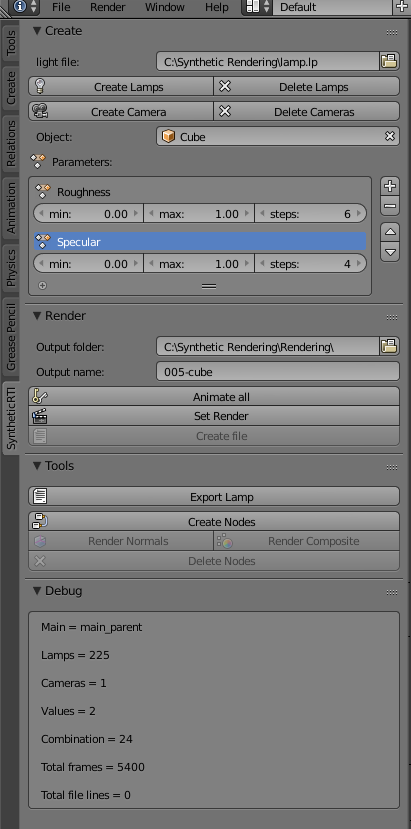
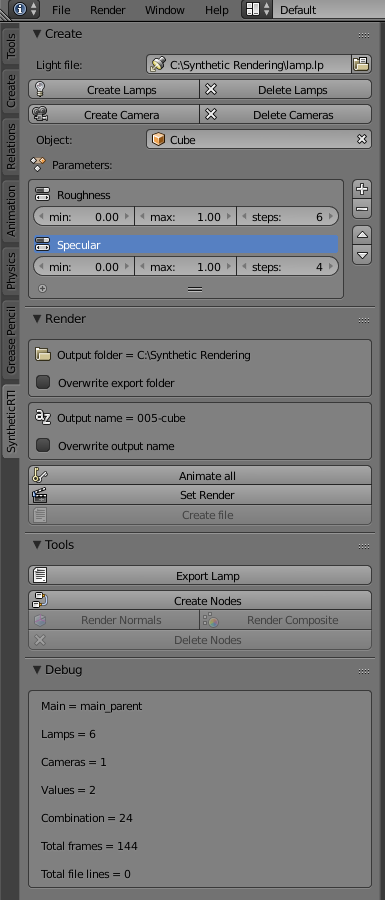
0.4.4 automatic folder and name output
- now we take the .blend file path and name to set the output. Give proper warning if the blender file is not saved
- it is possible to overwrite it
-interface and code polising

diff --git a/SyntheticRTI-Plugin/srtiutilities/srtiproperties.py b/SyntheticRTI-Plugin/srtiutilities/srtiproperties.py
@@ -24,35 +24,49 @@ class value(bpy.types.PropertyGroup):
     steps = bpy.props.IntProperty(default = 2, min = 2)
 
 class srti_props(bpy.types.PropertyGroup):
+    #path to the .lp file
     light_file_path = bpy.props.StringProperty(name="Lights file Path",
         subtype='FILE_PATH',
         default="*.lp",
         description = 'Path to the lights file.')
-
+        
+    #output folder path in use if overwrite_folder = true
     output_folder = bpy.props.StringProperty(name="Save file directory",
         subtype='DIR_PATH',
         description = 'Path to the lights file.')
-
+      
+    #output name in use if overwrite_name = true
     save_name = bpy.props.StringProperty(name="Save file name",
         default = "Image",
-        description = "file name")
-
+        description = "Export file name")
+    
+    #main parente empty pointer
     main_parent = bpy.props.PointerProperty(name="Main Parent",
         type=bpy.types.Object,
         description = "Main parent of the group")
 
+    #pointer to object affected by value changes
     main_object = bpy.props.PointerProperty(name="Main object",
         type=bpy.types.Object,
         description = "Main object to apply material")
+     
+    #boolean to overwrite the output folder path   
+    overwrite_folder = bpy.props.BoolProperty(name = "Overwrite export folder",
+        default = False,
+        description = "Overwrite export folder path")
 
-    modified = bpy.props.BoolProperty(name = "Boolean if not animated", default = True)
+    #boolean to overwrite the output folder name
+    overwrite_name = bpy.props.BoolProperty(name = "Overwrite output name",
+        default = False,
+        description = "Overwrite output name")
+    
+    #modified = bpy.props.BoolProperty(name = "Boolean if not animated", default = True)
 
     selected_value_index = bpy.props.IntProperty()
 
     list_lights = bpy.props.CollectionProperty(type = light)
     list_cameras = bpy.props.CollectionProperty(type = camera)
     list_values = bpy.props.CollectionProperty(type = value)
-    #list_file = bpy.props.CollectionProperty(type = bpy.props.StringProperty)
 
 def register():
     print("-"*40)
@@ -63,44 +77,5 @@ def register():
     bpy.utils.register_class(light)
     bpy.utils.register_class(camera)
     bpy.utils.register_class(value)
-    #bpy.utils.register_class(value_node)
     bpy.utils.register_class(srti_props)
     bpy.types.Scene.srti_props = bpy.props.PointerProperty(type = srti_props)
-
-
-#def unregister():
-#    bpy.utils.unregister_class(SyntheticRTIPanelTools)
-#    bpy.utils.unregister_class(SyntheticRTIPanelDebug)
-#    bpy.utils.unregister_class(SyntheticRTIPanelRender)
-#    bpy.utils.unregister_class(SyntheticRTIPanelCreate)
-#    bpy.utils.unregister_class(export_as_lamp)
-#    bpy.utils.unregister_class(render_normals)
-#    bpy.utils.unregister_class(render_composite)
-#    bpy.utils.unregister_class(reset_nodes)
-#    bpy.utils.unregister_class(create_export_node)
-#    bpy.utils.unregister_class(Values_UL_items)
-#    bpy.utils.unregister_class(values_UIList)
-#    bpy.utils.unregister_class(create_cameras)
-#    bpy.utils.unregister_class(create_lamps)
-#    bpy.utils.unregister_class(delete_cameras)
-#    bpy.utils.unregister_class(delete_lamps)
-#    bpy.utils.unregister_class(delete_active_lamp)
-#    bpy.utils.unregister_class(delete_active_camera)
-#    bpy.utils.unregister_class(create_export_file)
-#    bpy.utils.unregister_class(render_images)
-#    bpy.utils.unregister_class(animate_all)
-#    bpy.utils.unregister_class(srti_props)
-#    bpy.utils.unregister_class(light)
-#    bpy.utils.unregister_class(camera)
-#    bpy.utils.unregister_class(value)
-#    #bpy.utils.register_class(value_node)
-#    #bpy.types.Scene.srti_props = bpy.props.PointerProperty(type = srti_props)
-
-#    ##Delete of custom rna data
-#    #del bpy.types.Scene.srti_light_file_path
-#    #del bpy.types.Scene.srti_main_parent_prop
-
-#if __name__ == "__main__":
-#    print("registering main")
-#    print(__main__)
-#    register()

diff --git a/SyntheticRTI-Plugin/srtiutilities/srtigui.py b/SyntheticRTI-Plugin/srtiutilities/srtigui.py
@@ -4,6 +4,7 @@
 
 import bpy
 import numpy
+import os
 from .srtifunc import *
 from .srtiproperties import file_lines as file_lines
 
@@ -15,7 +16,7 @@ class Values_UL_items(bpy.types.UIList):
 #        row = box.row(align = True)
 #        row.alignment = 'LEFT'
         col1 = layout.column()
-        col1.prop(item, "name", text="", emboss=False, translate=False, icon='ACTION')
+        col1.prop(item, "name", text="", emboss=False, translate=False, icon='BUTS')
         row2 = col1.row(align = True)
         row2.prop(item,"min")
         row2.prop(item,"max")
@@ -40,7 +41,7 @@ class SyntheticRTIPanelCreate(bpy.types.Panel):
         layout = self.layout
         
         #light
-        layout.prop(curr_scene.srti_props, "light_file_path", text = 'light file')
+        layout.prop(curr_scene.srti_props, "light_file_path", text = 'Light file', icon = "LAMP_SPOT")
         row = layout.row(align = True)
         row.operator("srti.create_lamps", icon ="OUTLINER_DATA_LAMP")
         row.operator("srti.delete_lamps", icon = "X")
@@ -76,8 +77,36 @@ class SyntheticRTIPanelRender(bpy.types.Panel):
     def draw(self, context):
         curr_scene = context.scene
         layout = self.layout
-        layout.prop(curr_scene.srti_props, "output_folder", text = 'Output folder')
-        layout.prop(curr_scene.srti_props, "save_name", text = 'Output name')
+        
+        #output folder
+        box = layout.box()
+        if curr_scene.srti_props.overwrite_folder: #if we want to overwrite
+            box.label("Output folder = "+curr_scene.srti_props.output_folder, icon = "FILE_FOLDER")          
+            box.prop(curr_scene.srti_props, "overwrite_folder")
+            box.prop(curr_scene.srti_props, "output_folder", text = 'Output folder')
+        else: #standard output taken from the saved blender file
+            if context.blend_data.is_saved: # if the file is saved
+                box.label("Output folder = "+os.path.dirname(context.blend_data.filepath), icon = "FILE_FOLDER")
+            else:
+                box.label("Output folder = *Must save the file*", icon = "ERROR")
+                
+            box.prop(curr_scene.srti_props, "overwrite_folder")
+
+            
+        #output name    
+        box = layout.box()
+        if curr_scene.srti_props.overwrite_name: #if we want to overwrite
+            box.label("Output name = "+curr_scene.srti_props.save_name, icon = "SORTALPHA")
+            box.prop(curr_scene.srti_props, "overwrite_name")
+            box.prop(curr_scene.srti_props, "save_name", text = 'Output name')
+        else: #standard name taken from the saved blender file
+            if context.blend_data.is_saved: # if the file is saved
+                box.label("Output name = "+bpy.path.display_name(context.blend_data.filepath), icon = "SORTALPHA")
+            else:
+                box.label("Output name = *Must save the file*", icon = "ERROR")
+                
+            box.prop(curr_scene.srti_props, "overwrite_name")
+        
         col = layout.column(align = True)
         col.operator("srti.animate_all", icon ="KEYINGSET")
         col.operator("srti.render_images", icon = "RENDER_ANIMATION")

diff --git a/SyntheticRTI-Plugin/srtiutilities/srtioperators/srtiop_render.py b/SyntheticRTI-Plugin/srtiutilities/srtioperators/srtiop_render.py
@@ -2,6 +2,7 @@
 import bpy
 import numpy
 import itertools
+import os
 from ..srtifunc import *
 from ..srtiproperties import file_lines as file_lines
 ####ANIMATION########
@@ -204,8 +205,9 @@ class render_images(bpy.types.Operator):
     
     def execute(self, context):
         curr_scene = context.scene
-        file_name = curr_scene.srti_props.save_name
-        save_dir = curr_scene.srti_props.output_folder
+        
+        save_dir = get_export_folder_path(context)
+        file_name = get_export_name(context)
         
         #error if file path not set
         if save_dir == '':
@@ -216,7 +218,7 @@ class render_images(bpy.types.Operator):
             max_digit = len(str(calculate_tot_frame(context)))
             
             #set render path for local rendering
-            curr_scene.render.filepath = "{0}/EXR/{1}-{2}".format(save_dir[:-1],file_name,"#"*max_digit)
+            curr_scene.render.filepath = "{0}/EXR/{1}-{2}".format(save_dir,file_name,"#"*max_digit)
 
             #set render settings
             set_render_exr(curr_scene)
@@ -238,8 +240,9 @@ class create_export_file(bpy.types.Operator):
     
     def execute(self, context):
         curr_scene = context.scene
-        file_name = curr_scene.srti_props.save_name
-        save_dir = curr_scene.srti_props.output_folder
+        
+        save_dir = get_export_folder_path(context)
+        file_name = get_export_name(context)
         
         #error if file path not set
         if save_dir == '':
@@ -247,7 +250,7 @@ class create_export_file(bpy.types.Operator):
             return{'CANCELLED'}
         else:       
             #create the file
-            file_path = bpy.path.abspath(save_dir+file_name+".csv")
+            file_path = bpy.path.abspath(save_dir+'/'+file_name+".csv")
             file = open(file_path, "w")
             
             #first we print the firt line with headers

diff --git a/SyntheticRTI-Plugin/srtiutilities/srtifunc.py b/SyntheticRTI-Plugin/srtiutilities/srtifunc.py
@@ -1,6 +1,7 @@
 
 import bpy
 import numpy
+import os
 
 ###Various function###
 def create_main(scene):
@@ -93,3 +94,16 @@ def set_render_exr(scene):
     curr_rend_layer.use_pass_glossy_indirect = True
     curr_rend_layer.use_pass_glossy_color = True
   
+def get_export_folder_path(context):
+    """Get export folder path. Return empty string if the file is not saved and/or there is no overwrite name"""
+    save_dir = os.path.dirname(context.blend_data.filepath)
+    if context.scene.srti_props.overwrite_folder:
+        save_dir = context.scene.srti_props.output_folder
+    return save_dir
+
+def get_export_name(context):
+    """Get export name. Return empty string if the file is not saved and/or there is no overwrite name"""
+    file_name = bpy.path.display_name(context.blend_data.filepath)
+    if context.scene.srti_props.overwrite_name:
+        file_name = context.scene.srti_props.save_name
+    return file_name

diff --git a/SyntheticRTI-Plugin/__init__.py b/SyntheticRTI-Plugin/__init__.py
@@ -1,7 +1,7 @@
 bl_info = {
     "name": "SyntheticRTI",
     "author": "Andrea Dall'Alba",
-    "version": (0, 4, 3),
+    "version": (0, 4, 4),
     "blender": (2, 79, 0),
     "location": "View3D > Tools > SyntheticRTI",
     "description": "Plugin to help creating the synthetic database for RTI",

diff --git a/README.md b/README.md
@@ -1,4 +1,4 @@
-![Branchlabel](https://img.shields.io/badge/Branch-Develop-green.svg)  ![Versionlabel](https://img.shields.io/badge/Version-0.4.3-yellow.svg)
+![Branchlabel](https://img.shields.io/badge/Branch-Develop-green.svg)  ![Versionlabel](https://img.shields.io/badge/Version-0.4.4-yellow.svg)
 # SyntheticRTI
 Creation of synthetic datasets for RTI and Photometric Stereo applications
 - [Introduction](https://github.com/giach68/SyntheticRTI/tree/Develop#introduction)
@@ -94,9 +94,13 @@ To apply the parameters to the material the object must have at least one materi
 ![material node](https://github.com/giach68/SyntheticRTI/blob/master/Documentation/node_example.png)
 
 ## Render
-**Output folder**: the path where to save the output files.
+**Output folder**: the path where to save the output files. It use the current blend file path if saved. It's possible to overwrite it.
 
-**Output name**: the name of the project. (Must be changed before the Animate all operation!)
+**Output name**: the name of the project. It use the current blend file name if saved. It's possible to overwrite it.
+
+> Overwrite example:
+
+![overwrite example](https://github.com/giach68/SyntheticRTI/blob/Develop/Documentation/export_overwrite.png)
 
 **Animate all**: it creates the animation which iterates over all parameters, all cameras and all lights in this specific order. It needs at least one Camera to work.  
 
